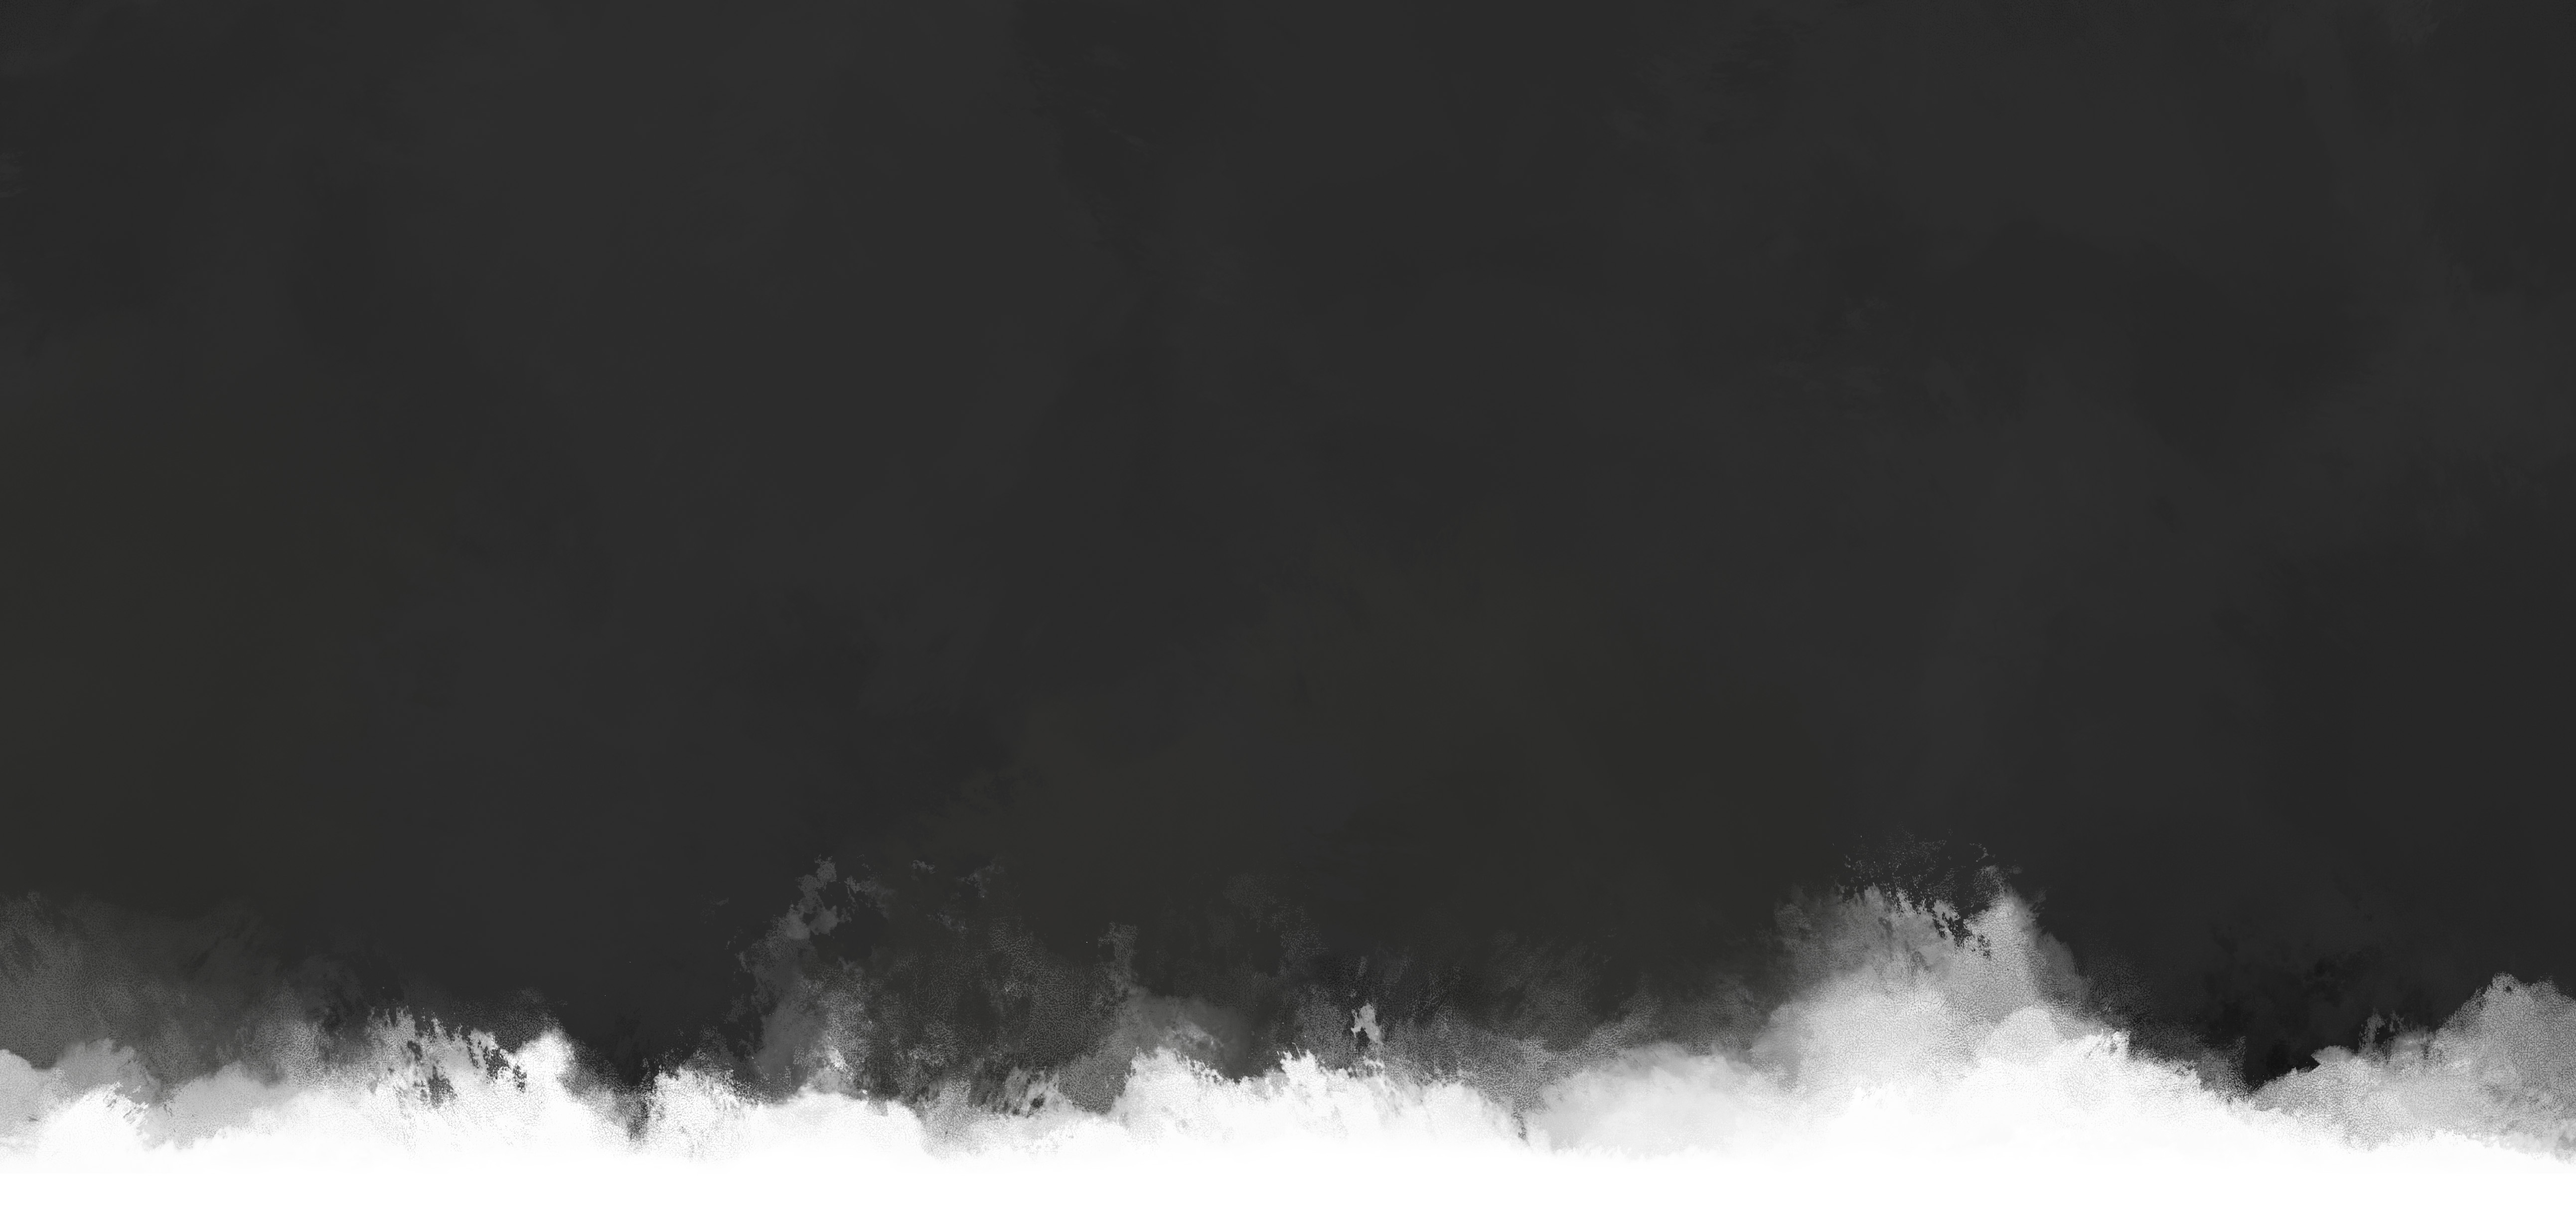
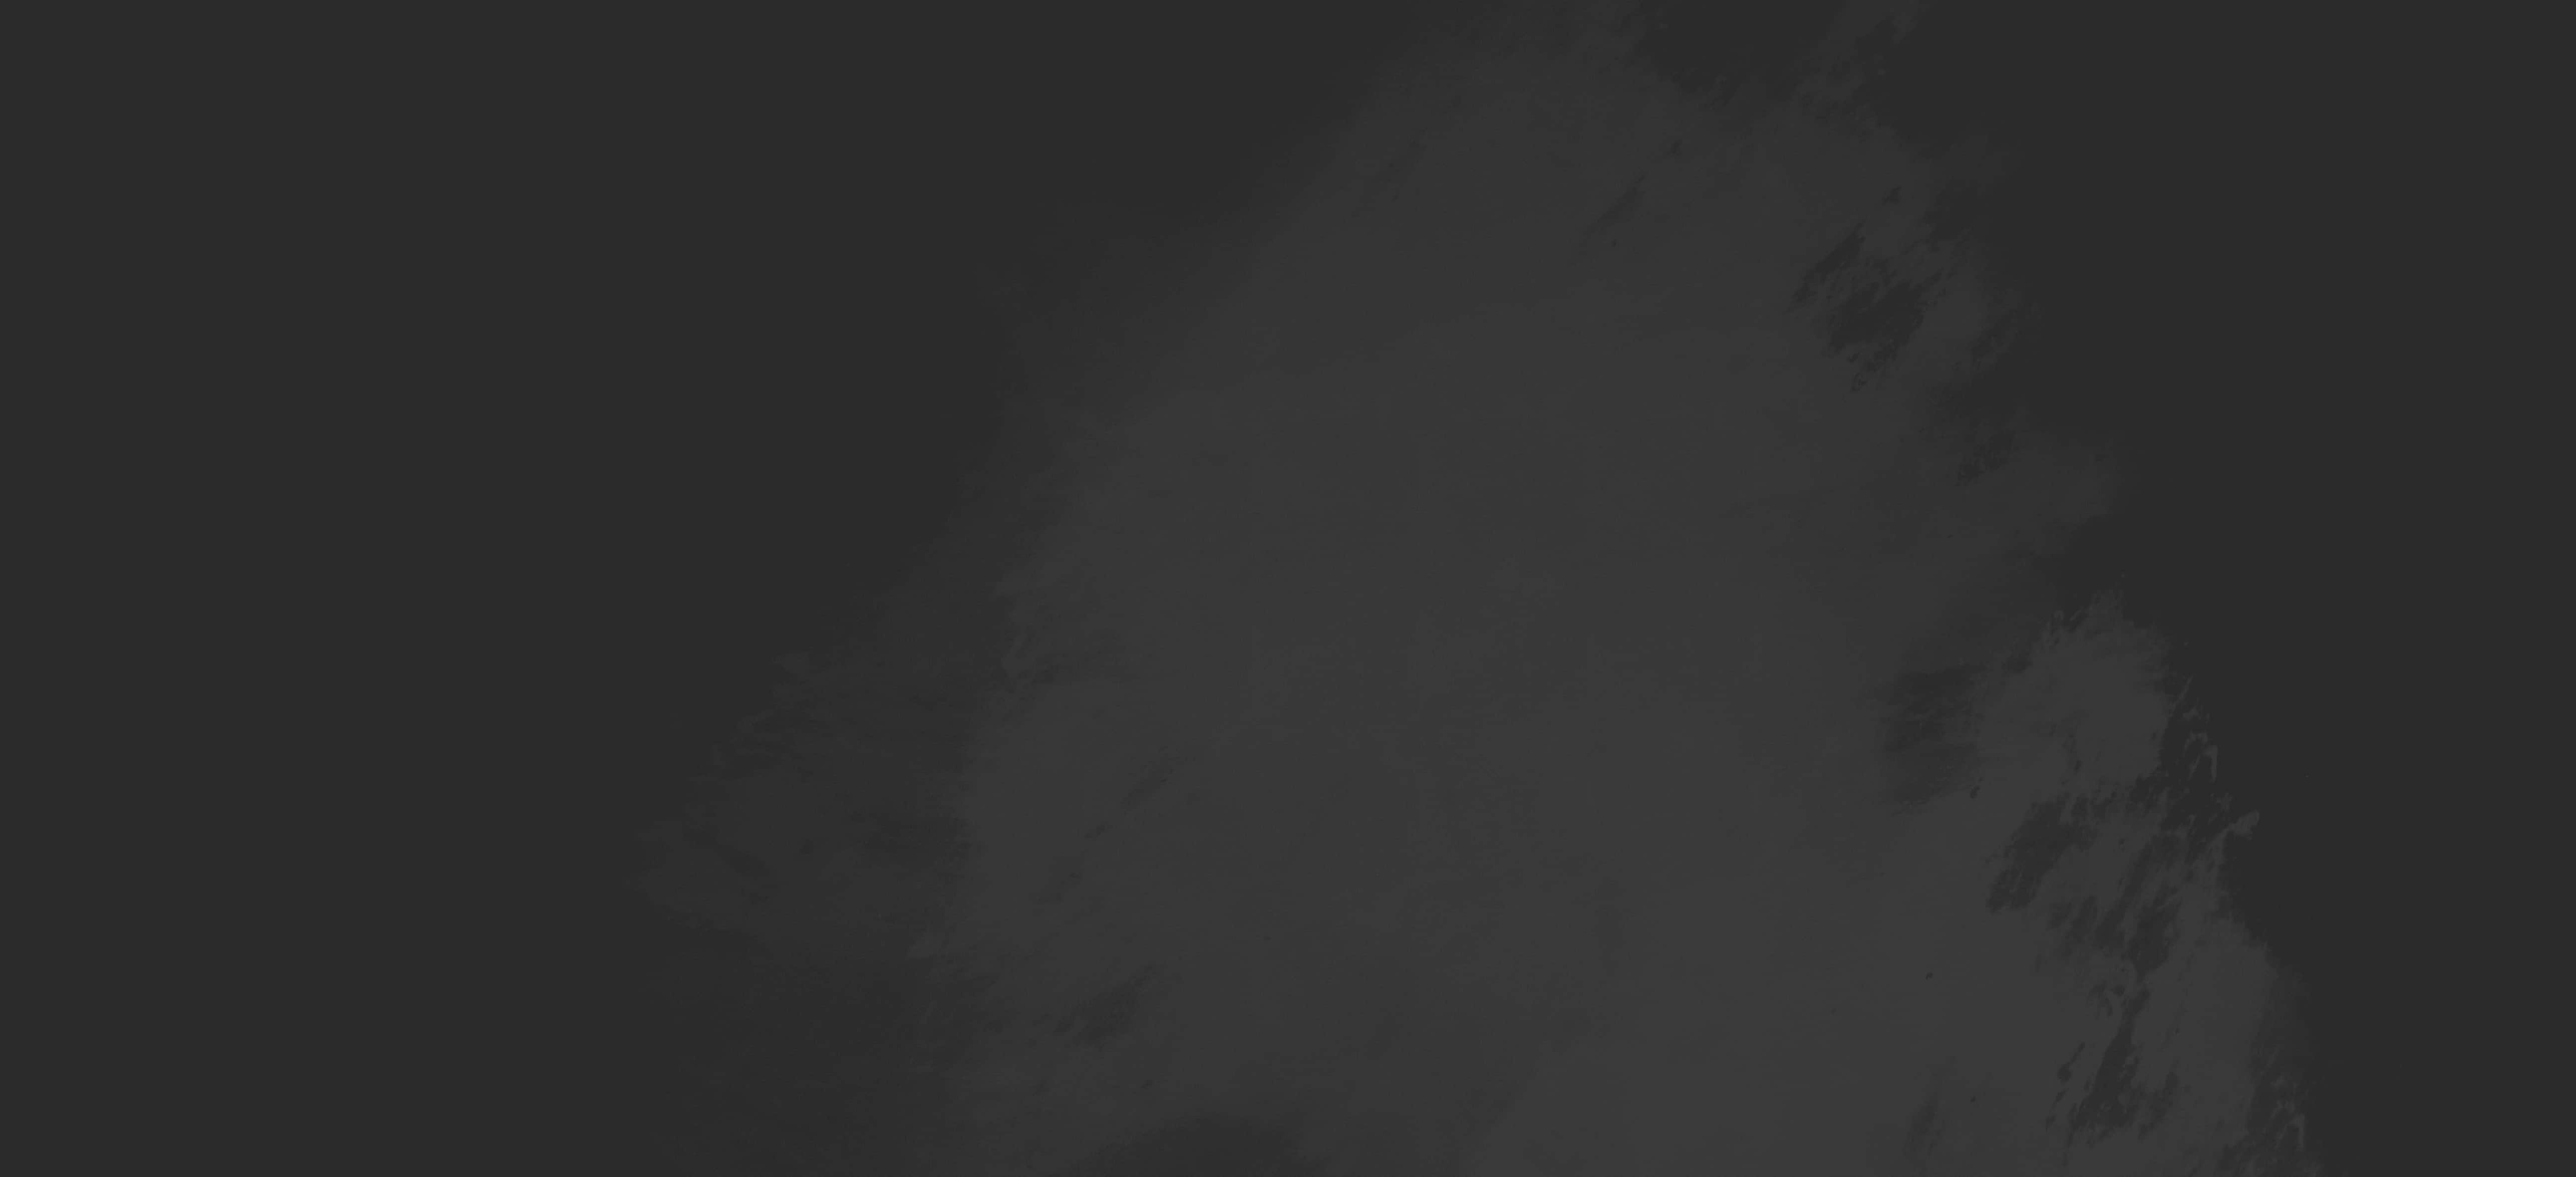
fix team section, squosh images

Changed region(s): [[0.0, 0.7414, 1.0, 1.0]]

diff --git a/app/about_us/components/TeamSection/teamSection.module.css b/app/about_us/components/TeamSection/teamSection.module.css
@@ -1,19 +1,19 @@
 .title {
-    margin: 0 0 6px;
+    margin: 0;
     color: #313131;
     font-size: 2.7rem;
     font-weight: lighter;
 }
 .subTitle {
-    margin-bottom: 30px;
     color: #313131;
+    margin-bottom: 7vh;
 }
 
 .teamContainer {
     position: relative;
     height: 100vh;
     scroll-snap-align: start;
-    padding-top: 11vh;
+    padding-top: 8vh;
 }
 
 .teamBg {
@@ -33,7 +33,6 @@
 .imageContainer {
     display: flex;
     width: 100%;
-    margin-top: -13vh;
 }
 
 .img1, .img2, .img3, .img4, .img5, .img6, .img7 {
@@ -46,11 +45,10 @@
 
 .img1 {
     width: 15.5vw;
-    height: 39vh;
-    margin-top: 20vh;
+    height: 42vh;
     padding: 20px 30px;
     background-color: #e0dcce;
-    background-image: url("/TeamImages/img1.png");
+    background-image: url("/TeamImages/img1.jpg");
     background-position: center;
     background-size: cover;
     color: #fff;
@@ -79,9 +77,9 @@
 .img2 {
     width: 15.5vw;
     height: 48vh;
-    margin-top: 30vh;
+    margin-top: 24vh;
     background-color: #e0dcce;
-    background-image: url("/TeamImages/img2.png");
+    background-image: url("/TeamImages/img2.jpg");
     background-position: center;
     background-size: cover;
 }
@@ -110,13 +108,13 @@
 }
 
 .img3 {
-    width: 12vw;
-    height: 32vh;
-    margin-left: 11.5vw;
-    margin-top: 11vh;
+    width: 13vw;
+    height: 38vh;
+    margin-left: 10.5vw;
+    margin-top: 2vh;
     padding: 20px 20px;
     background-color: #e0dcce;
-    background-image: url("/TeamImages/img3.png");
+    background-image: url("/TeamImages/img3.jpg");
     background-position: center;
     background-size: cover;
 }
@@ -142,9 +140,9 @@
 
 .img4 {
     width: 23.5vw;
-    height: 48vh;
+    height: 52vh;
     background-color: #e0dcce;
-    background-image: url("/TeamImages/img4.png");
+    background-image: url("/TeamImages/img4.jpg");
     background-position: center;
     background-size: cover;
 }
@@ -171,10 +169,10 @@
 .img5 {
     width: 15.4vw;
     height: 40vh;
-    margin-top: 37vh;
+    margin-top: 27vh;
     padding: 20px;
     background-color: #e0dcce;
-    background-image: url("/TeamImages/img5.png");
+    background-image: url("/TeamImages/img5.jpg");
     background-position: center;
     background-size: cover;
 }
@@ -204,12 +202,10 @@
 }
 
 .img6 {
-    width: 22vw;
+    width: 20vw;
     height: 60vh;
-    margin-top: -1.5vh;
-    padding: 20px;
     background-color: #e0dcce;
-    background-image: url("/TeamImages/img6.png");
+    background-image: url("/TeamImages/img6.jpg");
     background-position: center;
     background-size: cover;
 }
@@ -236,10 +232,10 @@
 
 .img7 {
     width: 24.5vh;
-    height: 32.5vh;
+    height: 32vh;
     background-color: #e0dcce;
     padding: 20px;
-    background-image: url("/TeamImages/img7.png");
+    background-image: url("/TeamImages/img7.jpg");
     background-position: center;
     background-size: cover;
 }

diff --git a/app/about_us/components/TeamSection/TeamSection.tsx b/app/about_us/components/TeamSection/TeamSection.tsx
@@ -12,21 +12,23 @@ export default function TeamSection() {
   return (
     <section id="team" className={styles.teamContainer}>
       <div className={styles.teamBg}></div>
-      <h1 className={styles.title}>Наша команда</h1>
-      <p className={styles.subTitle}>Лучшие специалисты в своем деле!</p>
       <div className={styles.imageContainer}>
+        <div>
+        <h1 className={styles.title}>Наша команда</h1>
+        <p className={styles.subTitle}>Лучшие специалисты в своем деле!</p>
         <motion.div 
-        onMouseEnter={() => {setIsShown(true); setKeepActive('img1')}}
-        onMouseLeave={() => setIsShown(false)}
-        className={styles.img1}>
+          onMouseEnter={() => {setIsShown(true); setKeepActive('img1')}}
+          onMouseLeave={() => setIsShown(false)}
+          className={styles.img1}>
           <div className={`${isShown && keepActive !== 'img1' ? 'greyBlock' : 'greyBlock hide'}`}></div>
           <p>ДРОЗДОВА<br/> АЛЕКСАНДРА<br/> АЛЕКСАНДРОВНА</p>
           <p>Руководитель отдела закупок и разрешительной документации</p>
         </motion.div>
+        </div>
         <motion.div 
-        onMouseEnter={() => {setIsShown(true); setKeepActive('img2')}}
-        onMouseLeave={() => setIsShown(false)}
-        className={styles.img2}>
+          onMouseEnter={() => {setIsShown(true); setKeepActive('img2')}}
+          onMouseLeave={() => setIsShown(false)}
+          className={styles.img2}>
           <div className={`${isShown && keepActive !== 'img2' ? 'greyBlock' : 'greyBlock hide'}`}></div>
           <p>Зубова<br/> Наталья<br/> Викторовна</p>
           <p>Генеральный директор</p>

diff --git a/app/about_us/components/KeepImproveSection/KeepImprove.tsx b/app/about_us/components/KeepImproveSection/KeepImprove.tsx
@@ -5,7 +5,7 @@ import styles from "./KeepImprove.module.css";
 export default function KeepImprove() {
     return (
         <section id="keep" className={styles.keepContainer}>
-            {/* <div className={styles.keepBg}></div> */}
+            <div className={styles.keepBg}></div>
             <div className={styles.keepTitleContainer}>
                 <h1 className={styles.title}>сохраняя - улучшать</h1>
                 <p className={styles.subTitle}>суть нашей компании!</p> 

diff --git a/app/about_us/components/KeepImproveSection/KeepImprove.module.css b/app/about_us/components/KeepImproveSection/KeepImprove.module.css
@@ -24,13 +24,13 @@
 
 .keepBg {
     position: absolute;
-    top: calc(-5vh - 50px);
+    top: 0;
     right: -6rem;
-    bottom: -100px;
+    bottom: 0;
     left: -6rem; 
     background-color: #fff;
     background-image: url("/KeepImproveBg.png");
-    background-size: 150%;
+    background-size: 100%;
     background-position: bottom;
     background-repeat: no-repeat;
     z-index: -1;

diff --git a/app/about_us/components/HistorySection/historySection.module.css b/app/about_us/components/HistorySection/historySection.module.css
@@ -47,7 +47,7 @@
     bottom: 0;
     left: -6rem;
     background-color: #2f2f2f;
-    background-image: url("/bgHistory.png");
+    background-image: url("/bgHistory.jpg");
     background-size: 150%;
     background-position: bottom;
     background-repeat: no-repeat;
